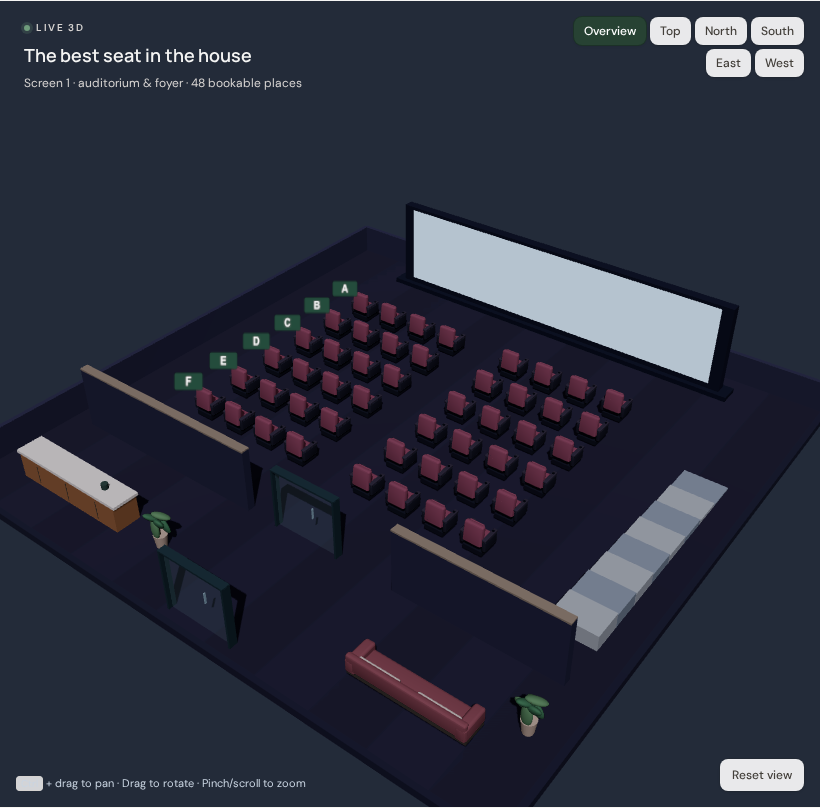
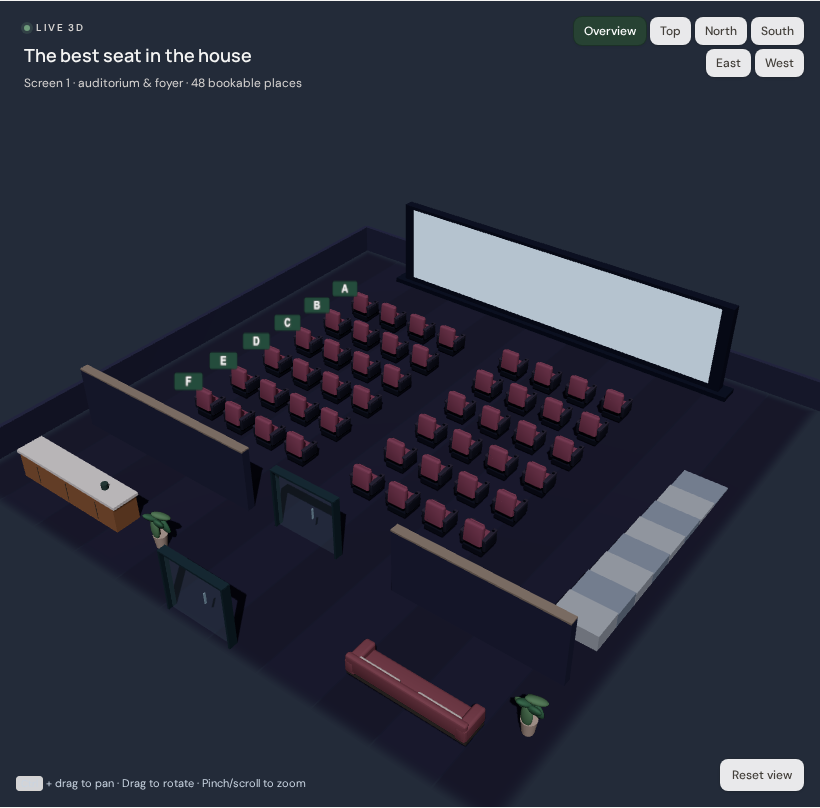
Fade scene floor edges into the canvas background

diff --git a/apps/web/src/Map3D.tsx b/apps/web/src/Map3D.tsx
@@ -10,6 +10,7 @@ import type { Floor, Resource, VenueKind } from '@openvenue/contracts';
 import { CinemaChair, DiningTable, ParkingBay } from './scene/Models';
 import { StadiumSeats } from './scene/StadiumSeats';
 import { Scenery } from './scene/Scenery';
+import { floorFade } from './scene/floorFade';
 type Viewpoint = 'overview' | 'top' | 'north' | 'south' | 'east' | 'west';
 function FitCamera({ revision, viewpoint }: { revision: number; viewpoint: Viewpoint }) {
   const bounds = useBounds();
@@ -231,16 +232,21 @@ export default function Map3D({
           <Bounds fit clip margin={1.15} maxDuration={0.35}>
             <FitCamera revision={cameraRevision} viewpoint={viewpoint} />
             <group>
-              <mesh receiveShadow position={[0, -0.15, 0]}>
+              <mesh receiveShadow position={[0, -0.15, 0]} renderOrder={-2}>
                 <boxGeometry args={[floor.width + 0.4, 0.3, floor.depth + 0.4]} />
                 <meshStandardMaterial
                   color={dark ? '#333545' : kind === 'parking' ? '#747e80' : '#d7d5ce'}
                   roughness={0.92}
+                  transparent
+                  depthWrite={false}
+                  onBeforeCompile={floorFade(floor.width, floor.depth)}
+                  key={`floor-${floor.width}-${floor.depth}`}
                 />
               </mesh>
               {Array.from({ length: Math.ceil(floor.width / 2) }, (_, i) => (
                 <mesh
                   key={i}
+                  renderOrder={-1}
                   rotation={[-Math.PI / 2, 0, 0]}
                   position={[-floor.width / 2 + i * 2 + 1, 0.001, 0]}
                   receiveShadow
@@ -261,6 +267,10 @@ export default function Map3D({
                             : '#e2e0d9'
                     }
                     roughness={0.9}
+                    transparent
+                    depthWrite={false}
+                    onBeforeCompile={floorFade(floor.width, floor.depth)}
+                    key={`floor-${floor.width}-${floor.depth}`}
                   />
                 </mesh>
               ))}

diff --git a/tests/scene-polish.test.ts b/tests/scene-polish.test.ts
@@ -1,6 +1,7 @@
 import { Children, isValidElement, type ReactNode, type ReactElement } from 'react';
 import { expect, it } from 'vitest';
-import { Color } from 'three';
+import { Color, ShaderLib, type MeshStandardMaterial } from 'three';
+import { floorFade } from '../apps/web/src/scene/floorFade';
 import { Box } from '../apps/web/src/scene/Models';
 import { StadiumPitch } from '../apps/web/src/scene/StadiumPitch';
 
@@ -39,5 +40,25 @@ it('keeps editable pitch dimensions and contrasts stripes while protecting marki
   for (const line of lines) {
     expect(line.props.polygonOffset).toBe(true);
     expect(line.props.polygonOffsetFactor).toBeLessThan(0);
+  }
+});
+
+it('fades the floor in shared world coordinates without replacing standard lighting or shadows', () => {
+  for (const [width, depth] of [
+    [12, 8],
+    [80, 60],
+  ]) {
+    const shader = { ...ShaderLib.standard, uniforms: {} } as Parameters<
+      MeshStandardMaterial['onBeforeCompile']
+    >[0];
+    floorFade(width, depth)(shader, undefined as never);
+    expect(shader.uniforms.floorHalfSize.value.toArray()).toEqual([width / 2, depth / 2]);
+    expect(shader.vertexShader).toContain('(modelMatrix * vec4(position, 1.0)).xz');
+    expect(shader.fragmentShader).toContain(
+      'smoothstep(0.0, 0.65, min(edgeDistance.x, edgeDistance.y))',
+    );
+    expect(shader.fragmentShader).toContain('#include <lights_fragment_begin>');
+    expect(shader.fragmentShader).toContain('#include <shadowmap_pars_fragment>');
+    expect(shader.fragmentShader).toContain('#include <alphamap_fragment>');
   }
 });

diff --git a/apps/web/src/scene/floorFade.ts b/apps/web/src/scene/floorFade.ts
@@ -1,0 +1,18 @@
+import { Vector2, type MeshStandardMaterial } from 'three';
+
+export function floorFade(width: number, depth: number): MeshStandardMaterial['onBeforeCompile'] {
+  return (shader) => {
+    shader.uniforms.floorHalfSize = { value: new Vector2(width / 2, depth / 2) };
+    shader.vertexShader = `varying vec2 floorPosition;\n${shader.vertexShader}`.replace(
+      '#include <begin_vertex>',
+      '#include <begin_vertex>\nfloorPosition = (modelMatrix * vec4(position, 1.0)).xz;',
+    );
+    shader.fragmentShader = `varying vec2 floorPosition;
+      uniform vec2 floorHalfSize;\n${shader.fragmentShader}`.replace(
+      '#include <alphamap_fragment>',
+      `#include <alphamap_fragment>
+      vec2 edgeDistance = floorHalfSize - abs(floorPosition);
+      diffuseColor.a *= smoothstep(0.0, 0.65, min(edgeDistance.x, edgeDistance.y));`,
+    );
+  };
+}

diff --git a/docs/tasks/05-3d-scene-polish.md b/docs/tasks/05-3d-scene-polish.md
@@ -32,7 +32,9 @@ and hard edges. It is the centrepiece of demos and the first thing operators see
 
 Reduced hemisphere fill and calibrated a warm directional key against the venue size, using
 soft shadow filtering and a small normal bias. Floors now use neutral canvas tones with faint
-plank seams. Cinema keeps its dark palette and has gently rounded arm pads. Existing rounded
+plank seams and a smooth 0.65-unit edge fade to the canvas background. The floor fade uses
+world coordinates shared by the existing slab and plank materials, so it adds no textures, meshes
+or draw calls and retains standard lighting/shadows. Cinema keeps its dark palette and has gently rounded arm pads. Existing rounded
 furniture and the four stadium instanced meshes remain; authored seat and availability colors,
 camera presets, controls and demand rendering are unchanged. Terrace supports have more contrast;
 the pitch has subtle mowing stripes and depth-offset markings to avoid flicker at shallow angles.
@@ -71,3 +73,13 @@ claiming the frame-rate requirement.
   starting the Docker Compose database. No schema or API changes.
 - Self-review: no camera/control changes, no authored/resource-state color changes, no additional
   stadium meshes or shadow passes; all eight captured scene images visually inspected.
+
+### Review follow-up: floor-edge fade
+
+Added the explicit gentle edge fade after review. A material shader patch reduces floor alpha
+only within 0.65 units of the perimeter, retaining the standard lighting and shadow shader chunks.
+The slab draws before the planks to keep transparent floor layers stable when orbiting. The same
+world-space boundary applies to every plank; floor dimensions key the materials
+so resized layouts receive fresh fade uniforms. All four after screenshots were refreshed.
+Focused verification: nine rendering/unit tests and four real-WebGL scene tests pass; the latter
+rebuilds the production bundle and includes typechecking. Physical-GPU performance remains unverified.

diff --git a/README.md b/README.md
@@ -12,7 +12,7 @@ Spantrek. No Spantrek code, credentials, or artwork is included.
 - Cinema: 48 upholstered seats with armrests, screen, acoustic partitions, foyer, concessions and administrator-created showtimes.
 - Stadium: 984 priced seats in four rising stands (12 rows north/east/west, 16 south), an editable football pitch, entrances, scoreboard and concessions.
 - SVG map editor: drag, numeric position/size/rotation, labels, floors, resources.
-- 3D opens by default: rounded furniture, detailed vehicles, soft directional shadows, neutral floors and a striped stadium pitch, orbit/zoom, camera fitting, selection and availability. Cinema retains its dark theme; lighting is procedural and needs no external environment downloads. Editing switches to 2D. Camera buttons offer overview, top and four side views; drag to rotate, Ctrl + drag (or right-drag) to pan, and pinch/scroll to zoom. Selection and review preserve the current camera; use a viewpoint button or Reset view to reframe.
+- 3D opens by default: rounded furniture, detailed vehicles, soft directional shadows, neutral floors with gently fading edges and a striped stadium pitch, orbit/zoom, camera fitting, selection and availability. Cinema retains its dark theme; lighting is procedural and needs no external environment downloads. Editing switches to 2D. Camera buttons offer overview, top and four side views; drag to rotate, Ctrl + drag (or right-drag) to pan, and pinch/scroll to zoom. Selection and review preserve the current camera; use a viewpoint button or Reset view to reframe.
 - Fourteen editable scenery types: plants, counters, sofas, partitions, columns, doors, screens, stairs, ramps, cars, chargers, barriers, pitches and text/number labels. Position, size, height, rotation and color persist in the shared layout.
 - Template creation, venue duplication, validated JSON import/export.
 - Persistent PostgreSQL bookings with database-enforced overlap prevention.
